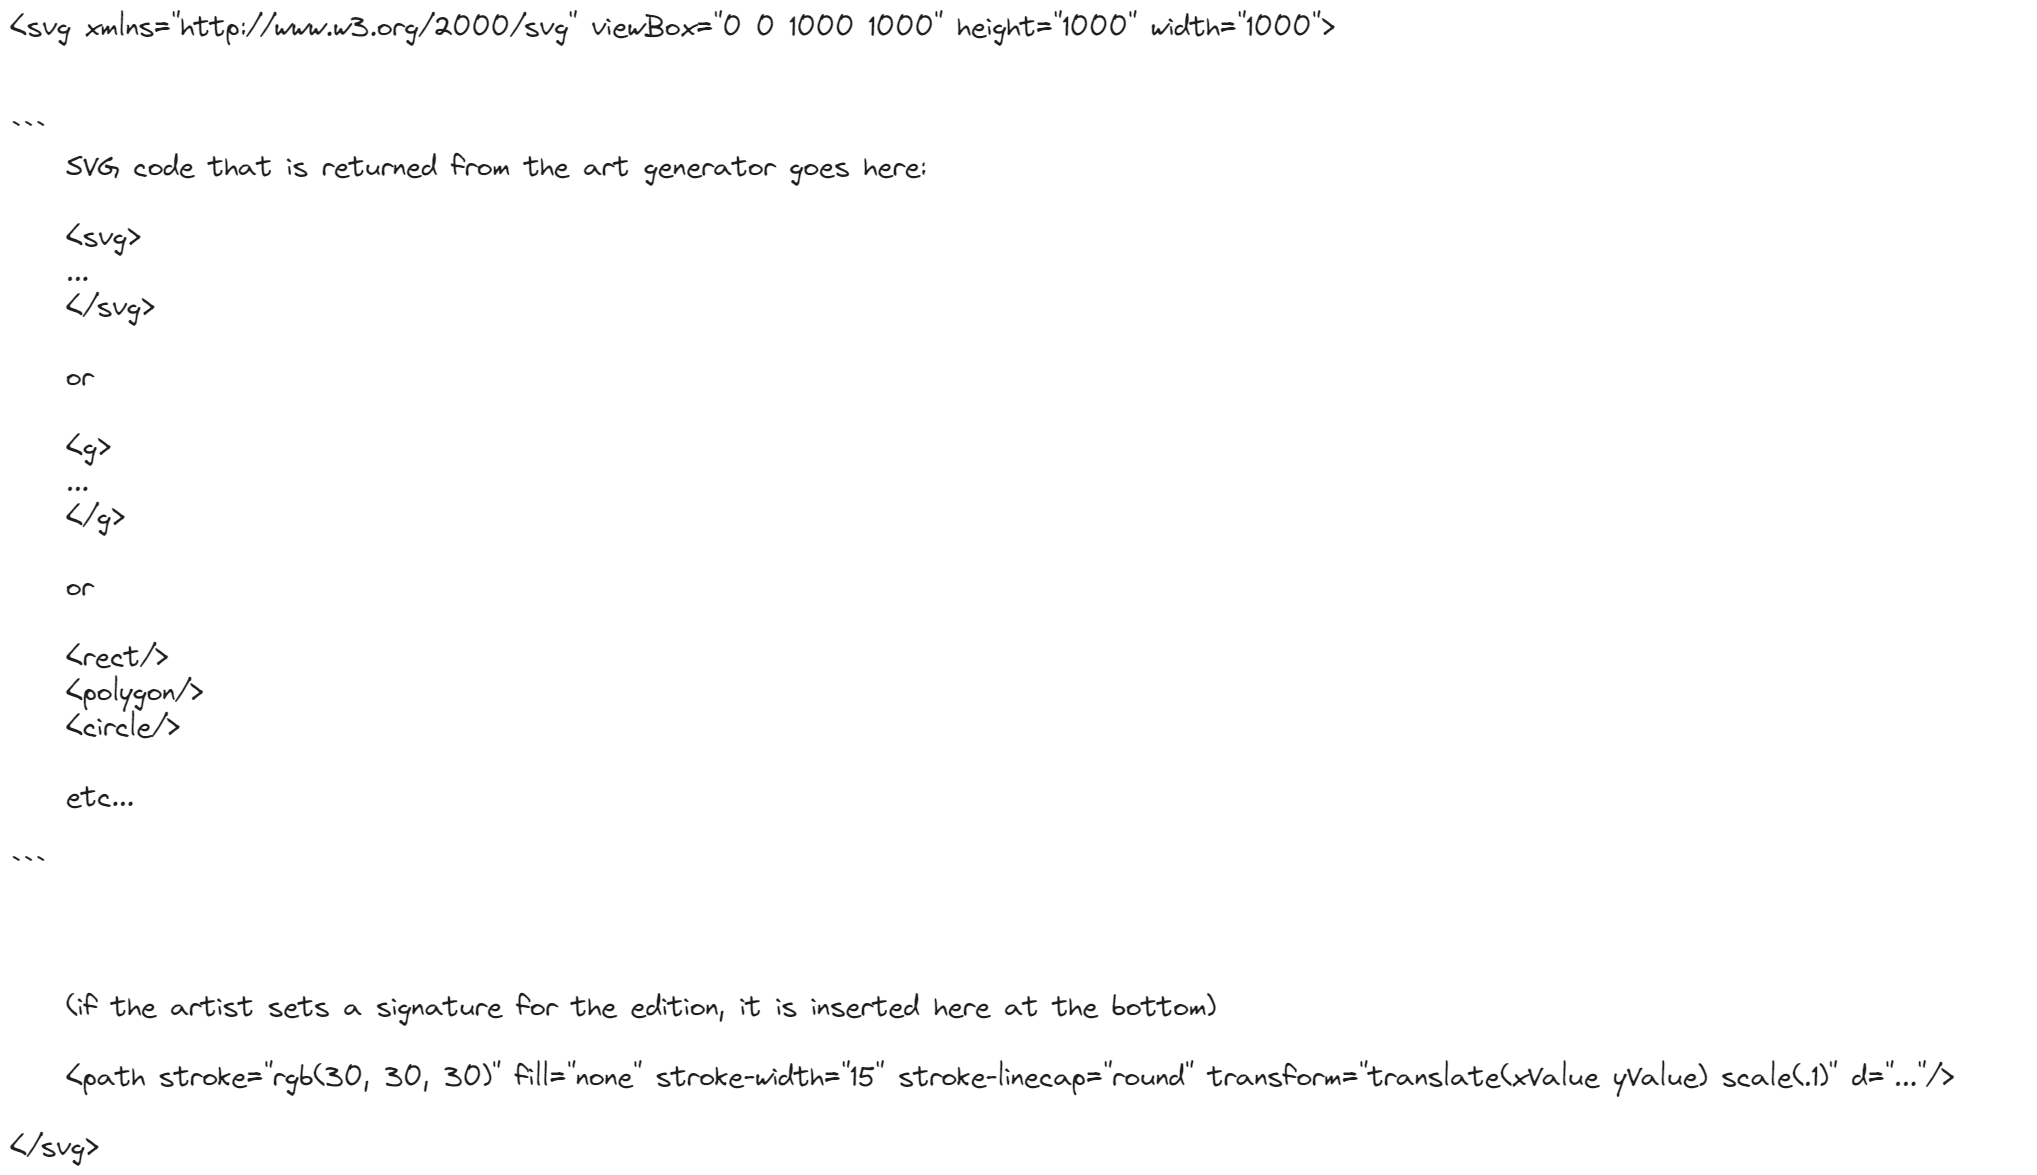
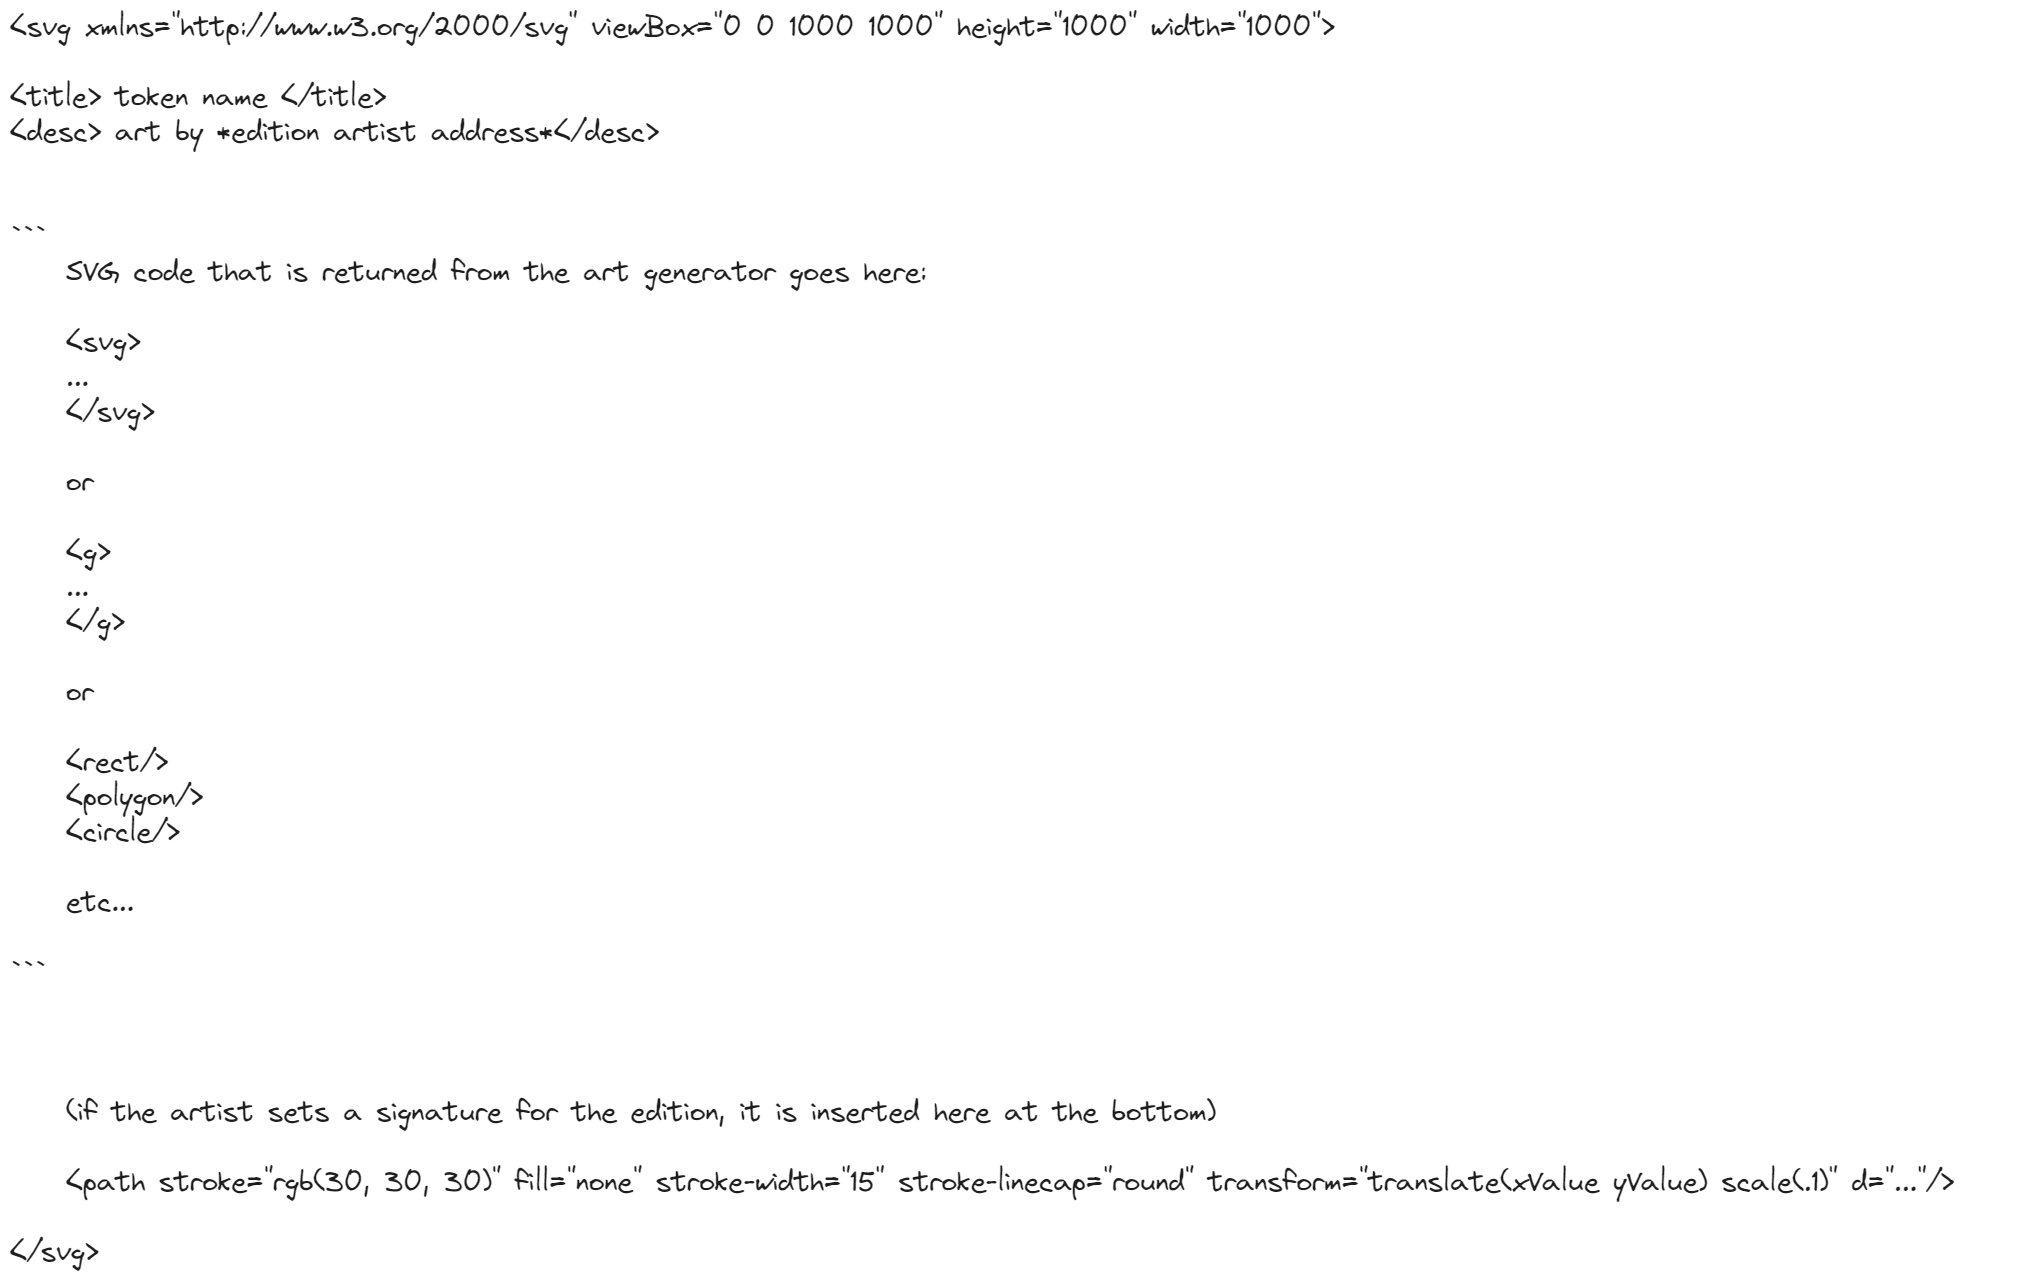
6/22

diff --git a/app/create/page.jsx b/app/create/page.jsx
@@ -21,23 +21,23 @@ function page() {
     </p>
     <ul>
             <li>
-                a name for your edition.
+                name.
             </li>
             <li>
-                a description of your edition.
+                description.
             </li>
             <li>
-                The total supply of your edition.
+                total supply.
             </li>
             <li>
-                address of the Art Generator contract. 
+                art generator contract address. 
             </li>
             <li>
-                address of the artist. <small>(the address must be controlled by the artist, this is used to change other setting for the edition. )</small>
+                artist address. <small>(the address must be controlled by the artist, this is used to change settings for the edition. )</small>
             </li>
         </ul>
         <p><b>note: this information cannot be changed afterwards. also, the art generator needs to be deployed and the code verified before hand. 
-            This is so I can read the code and make sure it roughly aligns with the core values of Onchain-Experiments_V1™ <small>(i.e. it as actually onchain)</small>.</b></p>
+            This is so I can read the code and make sure it roughly aligns with the core values of Onchain-Experiments_V1™ <small>(i.e. it as actually onchain and at least some effort was involved)</small>.</b></p>
     <br/> 
     <p>
         As an artist, you&apos;ll be in control of the following things: 
@@ -62,7 +62,7 @@ function page() {
             <li>
                 artists are also able to mint their own editions through a special function. This bypasses the msg.value check and mint status check. This could be handy if
                 you pause your edition near the end of the supply, but you want to mint and send token to a friend for example without needing 
-                to unpause and risking someone minting in front of you.  
+                to unpause and risking someone minting in front of you. Another possibility is to set the artist to a smart contract. This contract can have custom mint logic  using this special function. But, this can also bypass platform royalties.
             </li>
         </ul>
 
@@ -102,7 +102,7 @@ function page() {
 
         </ul>
         <p>
-            These small fees will help me continue to sponsor the gas costs for minting and other operations, keep the lights on, and continue to develop this project.
+            These small fees will help me continue to sponsor the gas costs for minting and other operations and continue to develop this project.
 
         </p>
 

diff --git a/components/ArtistControls.jsx b/components/ArtistControls.jsx
@@ -26,7 +26,7 @@ function ArtistControls({edition, index, editionId}) {
           <li>
             name: <Link
                   style={{ textDecoration: "none" }}
-                  href={`/browse/editions/${index+1}`}
+                  href={`/browse/editions/${editionId}`}
                 >
                   {edition.edition.name} &#8599;
                 </Link>
@@ -37,7 +37,7 @@ function ArtistControls({edition, index, editionId}) {
                     writeContract({ 
                     ...contractBase,
                     functionName: 'deleteEdition',
-                    args: [index+1],
+                    args: [editionId],
                 })
             } disabled={disabled || Number(edition.edition.counter) > 0}>
                   delete
@@ -58,7 +58,7 @@ function ArtistControls({edition, index, editionId}) {
                     writeContract({ 
                     ...contractBase,
                     functionName: 'setMintStatus',
-                    args: [index+1, true],
+                    args: [editionId, true],
                 })
 
                 } disabled={disabled}>active</button>/
@@ -66,7 +66,7 @@ function ArtistControls({edition, index, editionId}) {
                     writeContract({ 
                     ...contractBase,
                     functionName: 'setMintStatus',
-                    args: [index+1, false],
+                    args: [editionId, false],
                 })
 
                 } disabled={disabled}>inactive</button>
@@ -105,7 +105,7 @@ function ArtistControls({edition, index, editionId}) {
                     writeContract({ 
                     ...contractBase,
                     functionName: 'setPrice',
-                    args: [index+1, input.signatureId],
+                    args: [editionId, input.signatureId],
                 })}>
                 set
                 </button>
@@ -128,7 +128,7 @@ function ArtistControls({edition, index, editionId}) {
                     writeContract({ 
                     ...contractBase,
                     functionName: 'setSignatureId',
-                    args: [index+1, input.signatureId],
+                    args: [editionId, input.signatureId],
                 })
             }>set</button>
               </small>
@@ -139,7 +139,7 @@ function ArtistControls({edition, index, editionId}) {
                     writeContract({ 
                     ...contractBase,
                     functionName: 'artistMint',
-                    args: [index+1],
+                    args: [editionId],
                 })
             }>mint</button>
           </li>

diff --git a/app/layout.js b/app/layout.js
@@ -75,18 +75,10 @@ export default function RootLayout({ children }) {
       <footer>
         <nav>
           <ul>
-           
-            <li><a target="_blank" href={`https://testnets.opensea.io/assets/base-sepolia/${artAddress}`}>open sea</a></li>
-            <li>&#x26AC;</li>
-
-            <li><a target="_blank" href={`${baseScanUrl}address/${artAddress}`}>basescan</a></li>
-            <li>&#x26AC;</li>
-
-            <li style={{color: "#d7d7d7"}}>made with &#9760; by <a style={{color: "inherit"}} href="https://personal-site-neon-ten.vercel.app/index.html" target="_blank"><span className="personal-site">nolan</span></a></li>
-            <li>&#x26AC;</li>
-
+            <li><a target="_blank" href={`https://testnets.opensea.io/assets/base-sepolia/${artAddress}`}>open sea</a>&nbsp;{coolShape()}</li>
+            <li><a target="_blank" href={`${baseScanUrl}address/${artAddress}`}>basescan</a>&nbsp;{coolShape()}</li>
+            <li style={{color: "#d7d7d7"}}>made with &#9760; by <a style={{color: "inherit"}} href="https://personal-site-neon-ten.vercel.app/index.html" target="_blank"><span className="personal-site">nolan</span></a>&nbsp;{coolShape()}</li>
             <li style={{color: "#d7d7d7"}}>est. 2024</li>
-            
           </ul>
         </nav>
       </footer>

diff --git a/app/mint/[editionId]/page.jsx b/app/mint/[editionId]/page.jsx
@@ -12,6 +12,7 @@ import {comingSoon} from "@/app/constants"
 import { useReadContract } from 'wagmi'
 import { contractBase } from '../../contract'
 
+
 async function mintPageData(editionId) {
   
   editionId = BigInt(editionId);
@@ -67,6 +68,7 @@ function Mint({params}) {
     ...contractBase,
     functionName: "getDataUri",
     args: [Number(params.editionId) * 1000000 + Number(edition?.counter)]
+
   })
 
   const {data: lastEdition} = useReadContract({
@@ -124,7 +126,7 @@ function Mint({params}) {
             &nbsp;&nbsp;&#11096; max supply: {isLoading ? <small>loading...</small>  : Number(edition.supply)}
           </li>
           <li>
-            &nbsp;&nbsp;&#11096; price: {isLoading ? <small>loading...</small>  : formatEther(edition.price)} eth
+            &nbsp;&nbsp;&#11096; price: <span ><strike>10 eth</strike></span> &#8594; {isLoading ? <small>loading...</small>  : formatEther(edition.price)} eth
           </li>
           <li>
             &nbsp;&nbsp;&#11096; mint status:{" "}
@@ -162,7 +164,7 @@ function Mint({params}) {
 
         <figure style={galleryFig}>
           <img
-            src={lastMintedUri}
+            src={lastMintedUri || comingSoon}
             alt="image loading..."
             width="500"
           ></img>

diff --git a/components/CustomConnect.jsx b/components/CustomConnect.jsx
@@ -47,7 +47,11 @@ export default function CustomConnect() {
              {account?.address.slice(0, 6) + "..." + account?.address.slice(-4)}
             </button>
           </div>
-          {!paymasterSupported ? <p style={message}>&#x2736;tip: connect with a <button style={button} onClick={openSmartWallet}>coinbase smart wallet</button> to pay <b style={{fontSize:"large"}}>&#x1D56B;&#x1D556;&#x1D563;&#x1D560;</b> gas fees!</p> : <p style={message}>&#x2736;smart wallet detected, enjoy your free transactions &#x2661;</p>}
+          {!paymasterSupported 
+          ? 
+          <span style={{fontSize:"small"}}><b style={{fontSize:"large"}}>&#x2736; tip</b>: connect with a <button style={button} onClick={openSmartWallet}>coinbase smart wallet</button> to pay <b style={{fontSize:"x-large"}}>&#x1D56B;&#x1D556;&#x1D563;&#x1D560;</b> gas fees!</span> 
+          : 
+          <span style={{fontSize:"small"}}>&#x2736;smart wallet detected, enjoy your free transactions &#x2661;</span>}
         </div>
       )}
     </div>
@@ -86,7 +90,7 @@ export default function CustomConnect() {
 
 const message = {
   marginTop:"0", 
-  fontSize:"small",
+  // fontSize:"small",
   textAlign:"center"
 }
 

diff --git a/app/page.js b/app/page.js
@@ -157,7 +157,8 @@ export default async function Home() {
 
       <p>
         when an SVG for a token id is being rendered by the main smart contract, it will first get the seed of the token, 
-        call the art generator contract to get the raw svg code, then insert the code into a blank 1000x1000 SVG template. 
+        call the art generator contract to get the raw svg code, then insert the code into a blank 1000x1000 SVG template. At the top of the blank template,
+        the contract will add a {'<title>'} and {'<desc>'} element with the name and artist address of the edition.
         If the artist chooses to add a signature, that will be added to the bottom of the SVG. By default it will be placed 
         in the bottom right corner, the artist can change that by adding a <code>getSignatureTranslate()</code> function to the art generator contract (more info <Link href="/create">here</Link>).
         The code that is returned from the art generator contract can be any valid SVG elements that can inside an SVG for example:

diff --git a/app/browse/editions/[edition]/page.jsx b/app/browse/editions/[edition]/page.jsx
@@ -164,7 +164,7 @@ function Gallery({params}) {
     <div style={gallery}>
 
       {thumbnails?.error || !thumbnails.images && <p>uh oh, something went wrong fetching tokens, please try again.</p>}
-      {thumbnails?.loading && <p>loading previews...</p>}
+      {thumbnails?.loading && params.edition.counter > 0 && <p>loading previews...</p>}
       {thumbnails.images?.map((nft, i) => {
         if(nft.raw?.error === "Failed to get token uri"){
           

diff --git a/app/browse/page.jsx b/app/browse/page.jsx
@@ -56,6 +56,7 @@ export default async function Browse() {
           let ended = data.edition.counter >= data.edition.supply;
           let isMinting = !ended && data.edition.mintStatus;
           let paused = !ended && !data.edition.mintStatus;
+          if(data.edition.name === "") return
           return (
               <figure key={index} style={galleryFig}>
               <Link  href={`/browse/editions/${index + 1}`}>

diff --git a/app/constants.js b/app/constants.js
@@ -1,4 +1,4 @@
-export const artAddress = "0x6f5F46884067Ea6A14CaDf9ABAFA574F6FB0aFc0";
+export const artAddress = "0xb907d50076866B48b373705744960d254a382A83";
 
 export const ZERO_ADDRESS= "0x0000000000000000000000000000000000000000"
 
